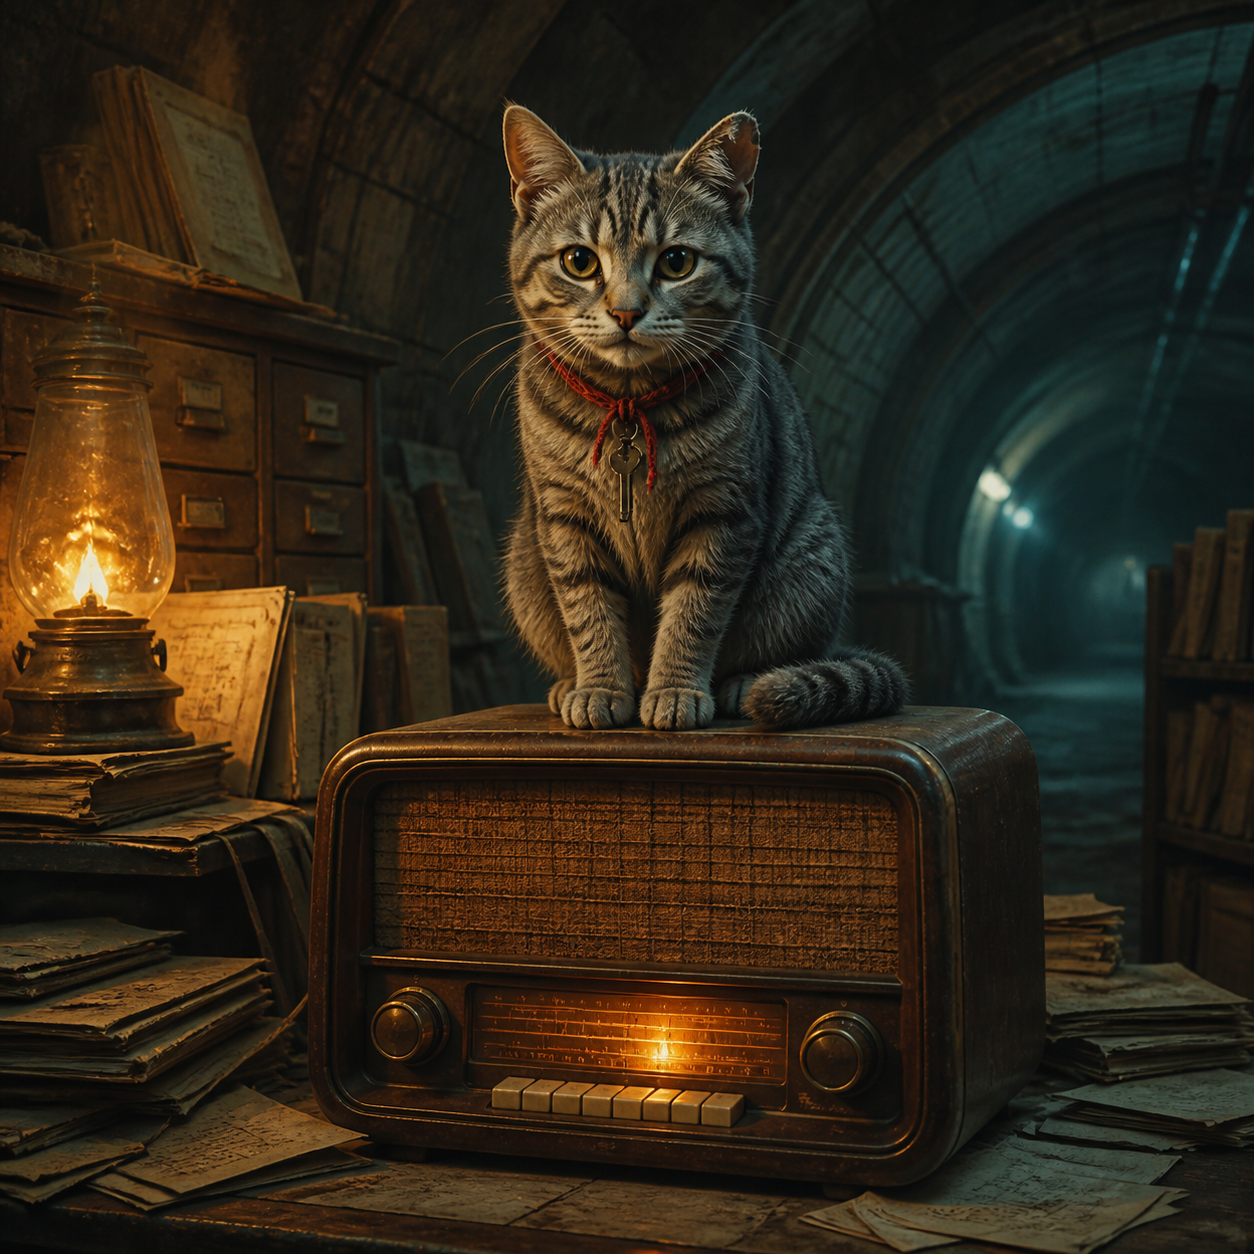
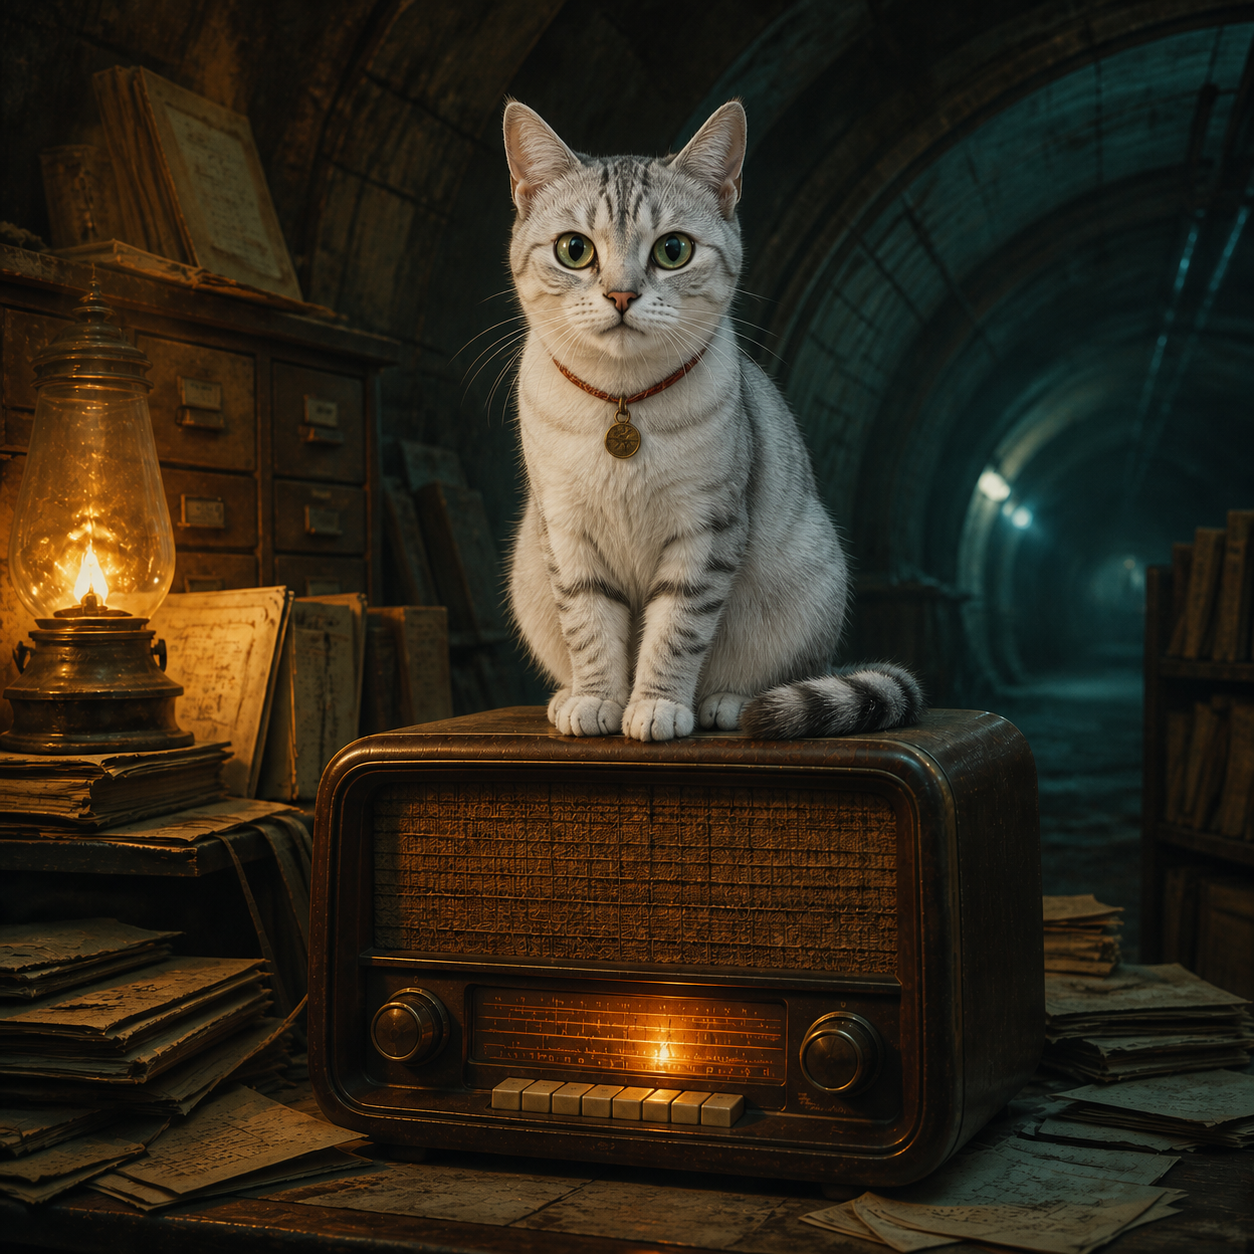
Replace cat NPC with Flashka

diff --git a/app/globals.css b/app/globals.css
@@ -68,7 +68,7 @@ button { border:1px solid #48544c; background:#1d2821; color:var(--white); paddi
 /* One shared crisis and the ambiguous six-symbol prophecy. */
 .single-crisis-layout{display:grid;grid-template-columns:minmax(360px,520px) minmax(540px,1fr);gap:24px;align-items:start;max-width:1460px;margin-top:28px}.crisis-main{position:sticky;top:20px}.crisis-main.resolved{border-color:#718d43;background:#172018}.crisis-symbol{position:relative;width:150px;height:150px;margin:20px auto;border:6px solid #d6ae54;border-radius:50%;box-shadow:0 0 0 1px #5c4725,0 0 42px rgba(214,174,84,.15)}.crisis-symbol:before{content:"";position:absolute;inset:31px;border:4px solid var(--acid)}.crisis-symbol i{position:absolute;width:13px;height:13px;background:var(--acid);box-shadow:0 0 12px var(--acid)}.crisis-symbol i:nth-child(1){left:27px;top:27px}.crisis-symbol i:nth-child(2){right:27px;top:27px}.crisis-symbol i:nth-child(3){left:27px;bottom:27px}.crisis-symbol i:nth-child(4){right:27px;bottom:27px}.crisis-objective{display:block!important;padding:14px!important;border-left:3px solid var(--acid)!important;font-size:12px!important;line-height:1.55}.prophecy-board{padding:24px;border:1px solid #4b574f;background:#111915;box-shadow:10px 10px 0 #070b08}.prophecy-board>h3{margin:7px 0 18px;font-size:28px;text-transform:uppercase}.prophecy-cadence{display:grid;grid-template-columns:repeat(4,1fr);gap:1px;margin-bottom:18px;background:#344038;border:1px solid #344038}.prophecy-cadence p{margin:0;padding:10px;background:#172019;color:#9ba69e;font-size:9px;line-height:1.4}.prophecy-cadence b{display:block;margin-bottom:6px;color:var(--acid);font:900 8px ui-monospace,monospace;text-transform:uppercase}.prophecy-grid{display:grid;grid-template-columns:repeat(2,minmax(240px,1fr));gap:9px}.prophecy-grid>article{padding:16px;border:1px solid #3b4840;background:#151e19}.prophecy-grid strong{display:block;color:#d6ae54;font:900 25px ui-monospace,monospace;letter-spacing:.09em}.prophecy-grid h4{margin:8px 0 12px;font-size:16px}.prophecy-grid details{margin:6px 0;padding:9px;border-left:2px solid #6f7d74;background:#0d1410}.prophecy-grid details:first-of-type{border-color:#718c49}.prophecy-grid details:nth-of-type(2){border-color:#864c3b}.prophecy-grid summary{cursor:pointer;color:#c7cfc9;font-size:9px;font-weight:800;text-transform:uppercase}.prophecy-grid details p{color:#9da8a0;font-size:9px;line-height:1.45}.prophecy-grid small{display:block;margin-top:10px;color:#77837b;font-size:8px;line-height:1.4}@media(max-width:1080px){.single-crisis-layout{grid-template-columns:1fr}.crisis-main{position:relative;top:0}.prophecy-cadence{grid-template-columns:1fr 1fr}}@media(max-width:620px){.prophecy-grid{grid-template-columns:1fr}.prophecy-cadence{grid-template-columns:1fr}.prophecy-board{padding:16px}}
 
-/* The two animal NPCs are the last cards in the roster and keep their art in every filter. */
+/* The two animal NPCs are the last cards in the roster; npc-27 is the user's cat Flashka. */
 .npc-card-grid .npc-card.npc-26 .npc-art>span,.npc-card-grid .npc-card.npc-27 .npc-art>span{font-size:0;background-position:center;background-size:cover;background-repeat:no-repeat}.npc-card-grid .npc-card.npc-26 .npc-art>span{background-image:url('/npc-dog-v1.png')}.npc-card-grid .npc-card.npc-27 .npc-art>span{background-image:url('/npc-cat-v1.png')}
 
 /* Three squad screens: map, public roster and the shared card table. */

diff --git a/app/game-data.ts b/app/game-data.ts
@@ -49,7 +49,7 @@ export const npcCards: NpcCard[] = [
 
 npcCards.push(
   { id:"npc-26", name:"Пёс Рельс", kind:"animal", price:3, portrait:-1, history:"Бывший поисковый пёс узнаёт крысиную стаю раньше людей и всегда выбирает сухой край платформы.", service:"Отменяет одно нападение крыс и предупреждает владельца о следующем животном событии." },
-  { id:"npc-27", name:"Котёнок Фосфор", kind:"animal", price:2, portrait:-1, history:"Его нашли спящим в ящике с лампами. В темноте глаза Фосфора отражают то, чего никто не хочет видеть.", service:"Отменяет одно ментальное последствие владельца либо подтверждает, что услышанный Голос был общим." },
+  { id:"npc-27", name:"Кошка Флешка", kind:"animal", price:2, portrait:-1, history:"Серебристая Флешка сама выбрала радиорубку на Китай-городе и спит только на работающих приёмниках. Перед ложным Голосом она перестаёт мурлыкать и смотрит точно туда, откуда он приходит.", service:"Отменяет одно ментальное последствие владельца либо подтверждает, что услышанный Голос был общим." },
 );
 
 export const timeRules = {
